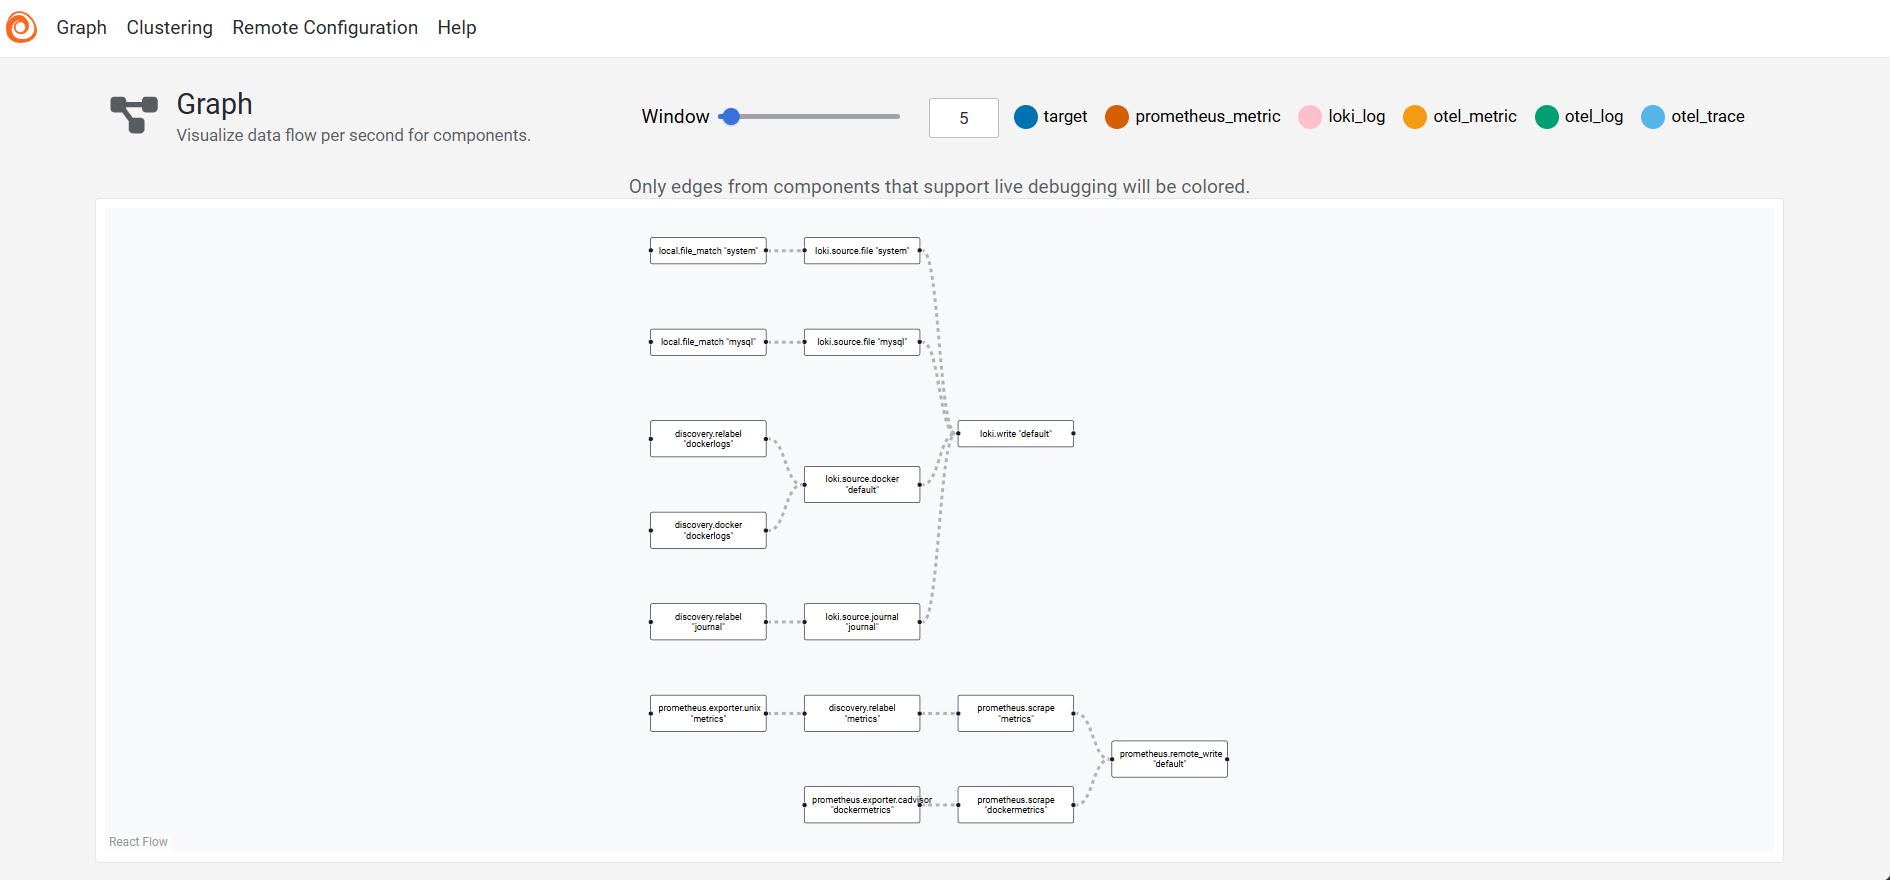
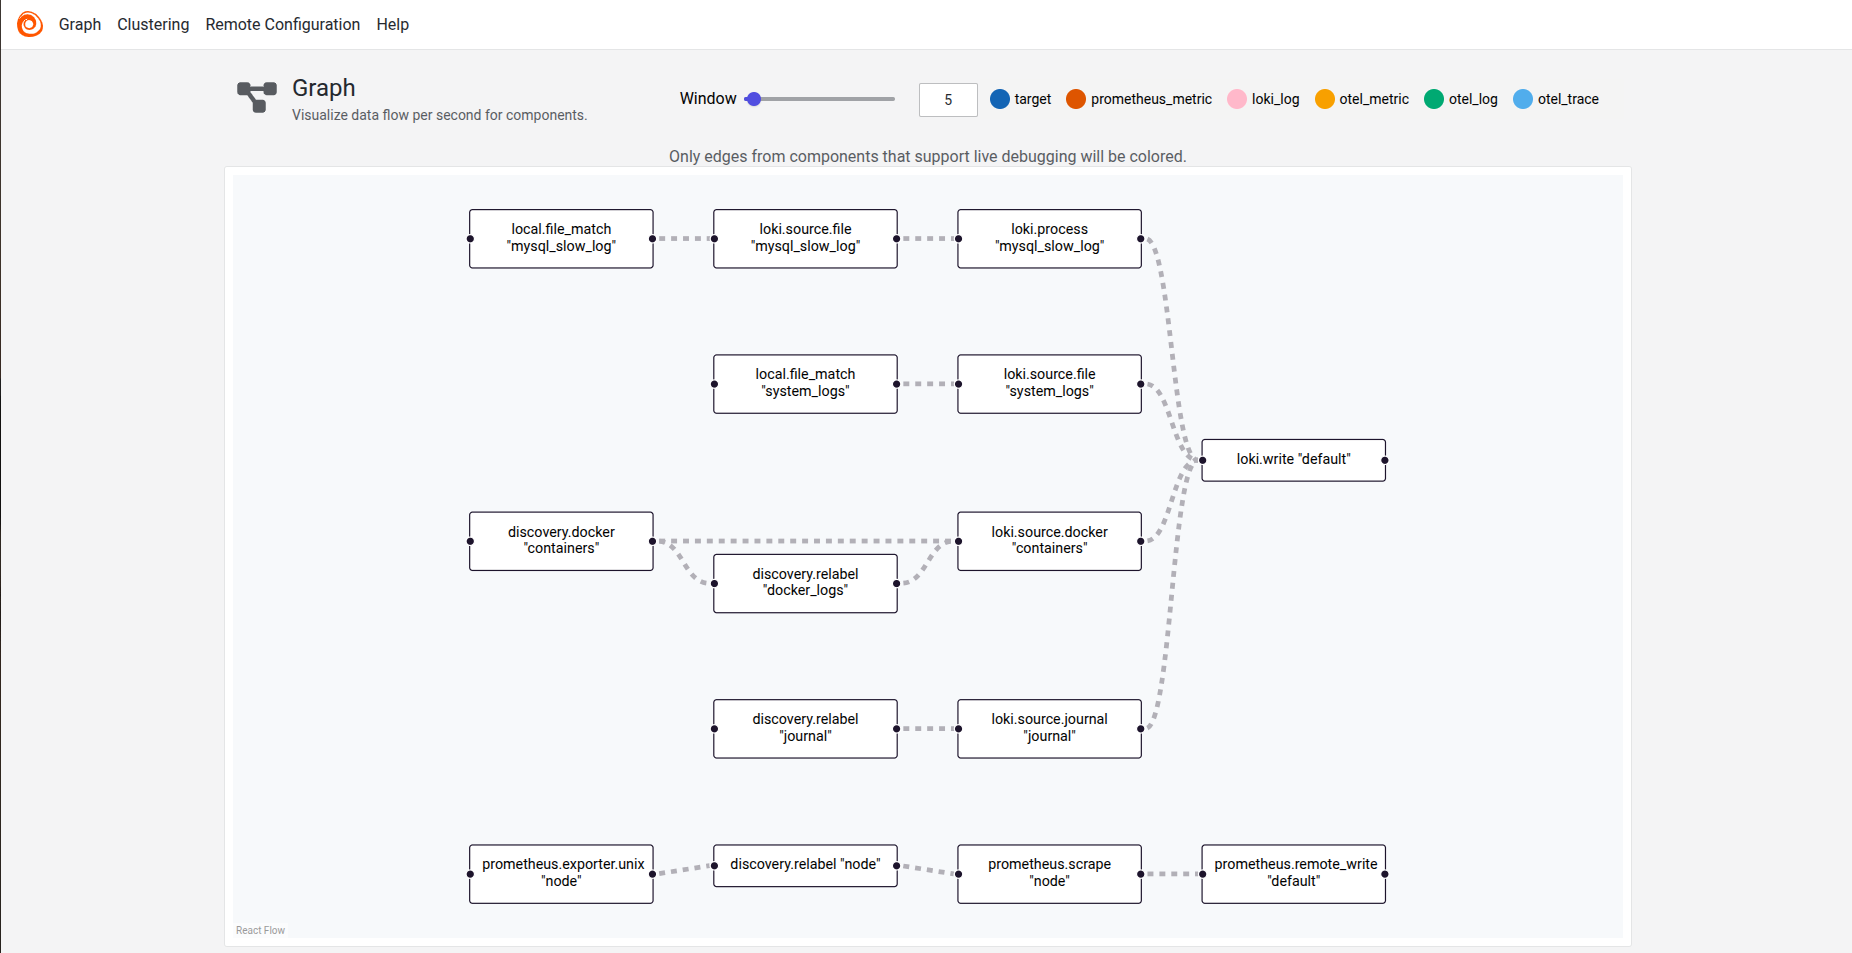
feat(docs): update README architecture images and enhance Alloy/Grafana sections fix(start.sh): add Docker 29 compatibility for cAdvisor overlayfs shim delete: remove outdated architecture images

diff --git a/README.md b/README.md
@@ -21,7 +21,7 @@ This project is a fully containerized application stack built with production pr
 
 ## 🏗 Architecture Overview
 
-![Architecture](assets/architecture/project_arch_updated.png)
+![Architecture](assets/architecture/project_arch-light.png)
 
 
 ## Prerequisites
@@ -182,14 +182,30 @@ docker-stack/
 ![Prometheus Targets](assets/prometheus-targets.png)
 
 ### Alloy
-![Alloy UI](assets/alloy.png)
-![Alloy Graph](assets/alloy-graph.png)
+<table>
+  <tr>
+    <td width="50%"><img src="assets/alloy.png" alt="Alloy Metrics" width="100%"></td>
+    <td width="50%"><img src="assets/alloy-graph.png" alt="Alloy Logs" width="100%"></td>
+  </tr>
+</table>
 
 ### Grafana
-![Dashboards](assets/grafana/dashboards.png)
-![Data Sources](assets/grafana/datasource.png)
-![Node Exporter](assets/grafana/dash-node-exporter.png)
-![Docker Containers](assets/grafana/dash-docker-monitoring.png)
-![Blackbox Exporter](assets/grafana/dash-blackbox-exporter.png)
-![Log Drilldown](assets/grafana/drilldown-logs.png)
-![Metrics Drilldown](assets/grafana/drilldown-metrics.png)
+
+<table>
+  <tr>
+    <td width="50%"><img src="assets/grafana/dashboards.png" alt="Dashboards" width="100%"></td>
+    <td width="50%"><img src="assets/grafana/datasource.png" alt="Data Sources" width="100%"></td>
+  </tr>
+  <tr>
+    <td width="50%"><img src="assets/grafana/node-dash.png" alt="Node Exporter" width="100%"></td>
+    <td width="50%"><img src="assets/grafana/docker-dash.png" alt="Docker Containers" width="100%"></td>
+  </tr>
+  <tr>
+    <td width="50%"><img src="assets/grafana/dash-blackbox-exporter.png" alt="Blackbox Exporter" width="100%"></td>
+    <td width="50%"><img src="assets/grafana/app-dash.png" alt="App Dashboard" width="100%"></td>
+  </tr>
+  <tr>
+    <td width="50%"><img src="assets/grafana/drilldown-metrics.png" alt="Metrics Drilldown" width="100%"></td>
+    <td width="50%"><img src="assets/grafana/drilldown-logs.png" alt="Log Drilldown" width="100%"></td>
+  </tr>
+</table>
